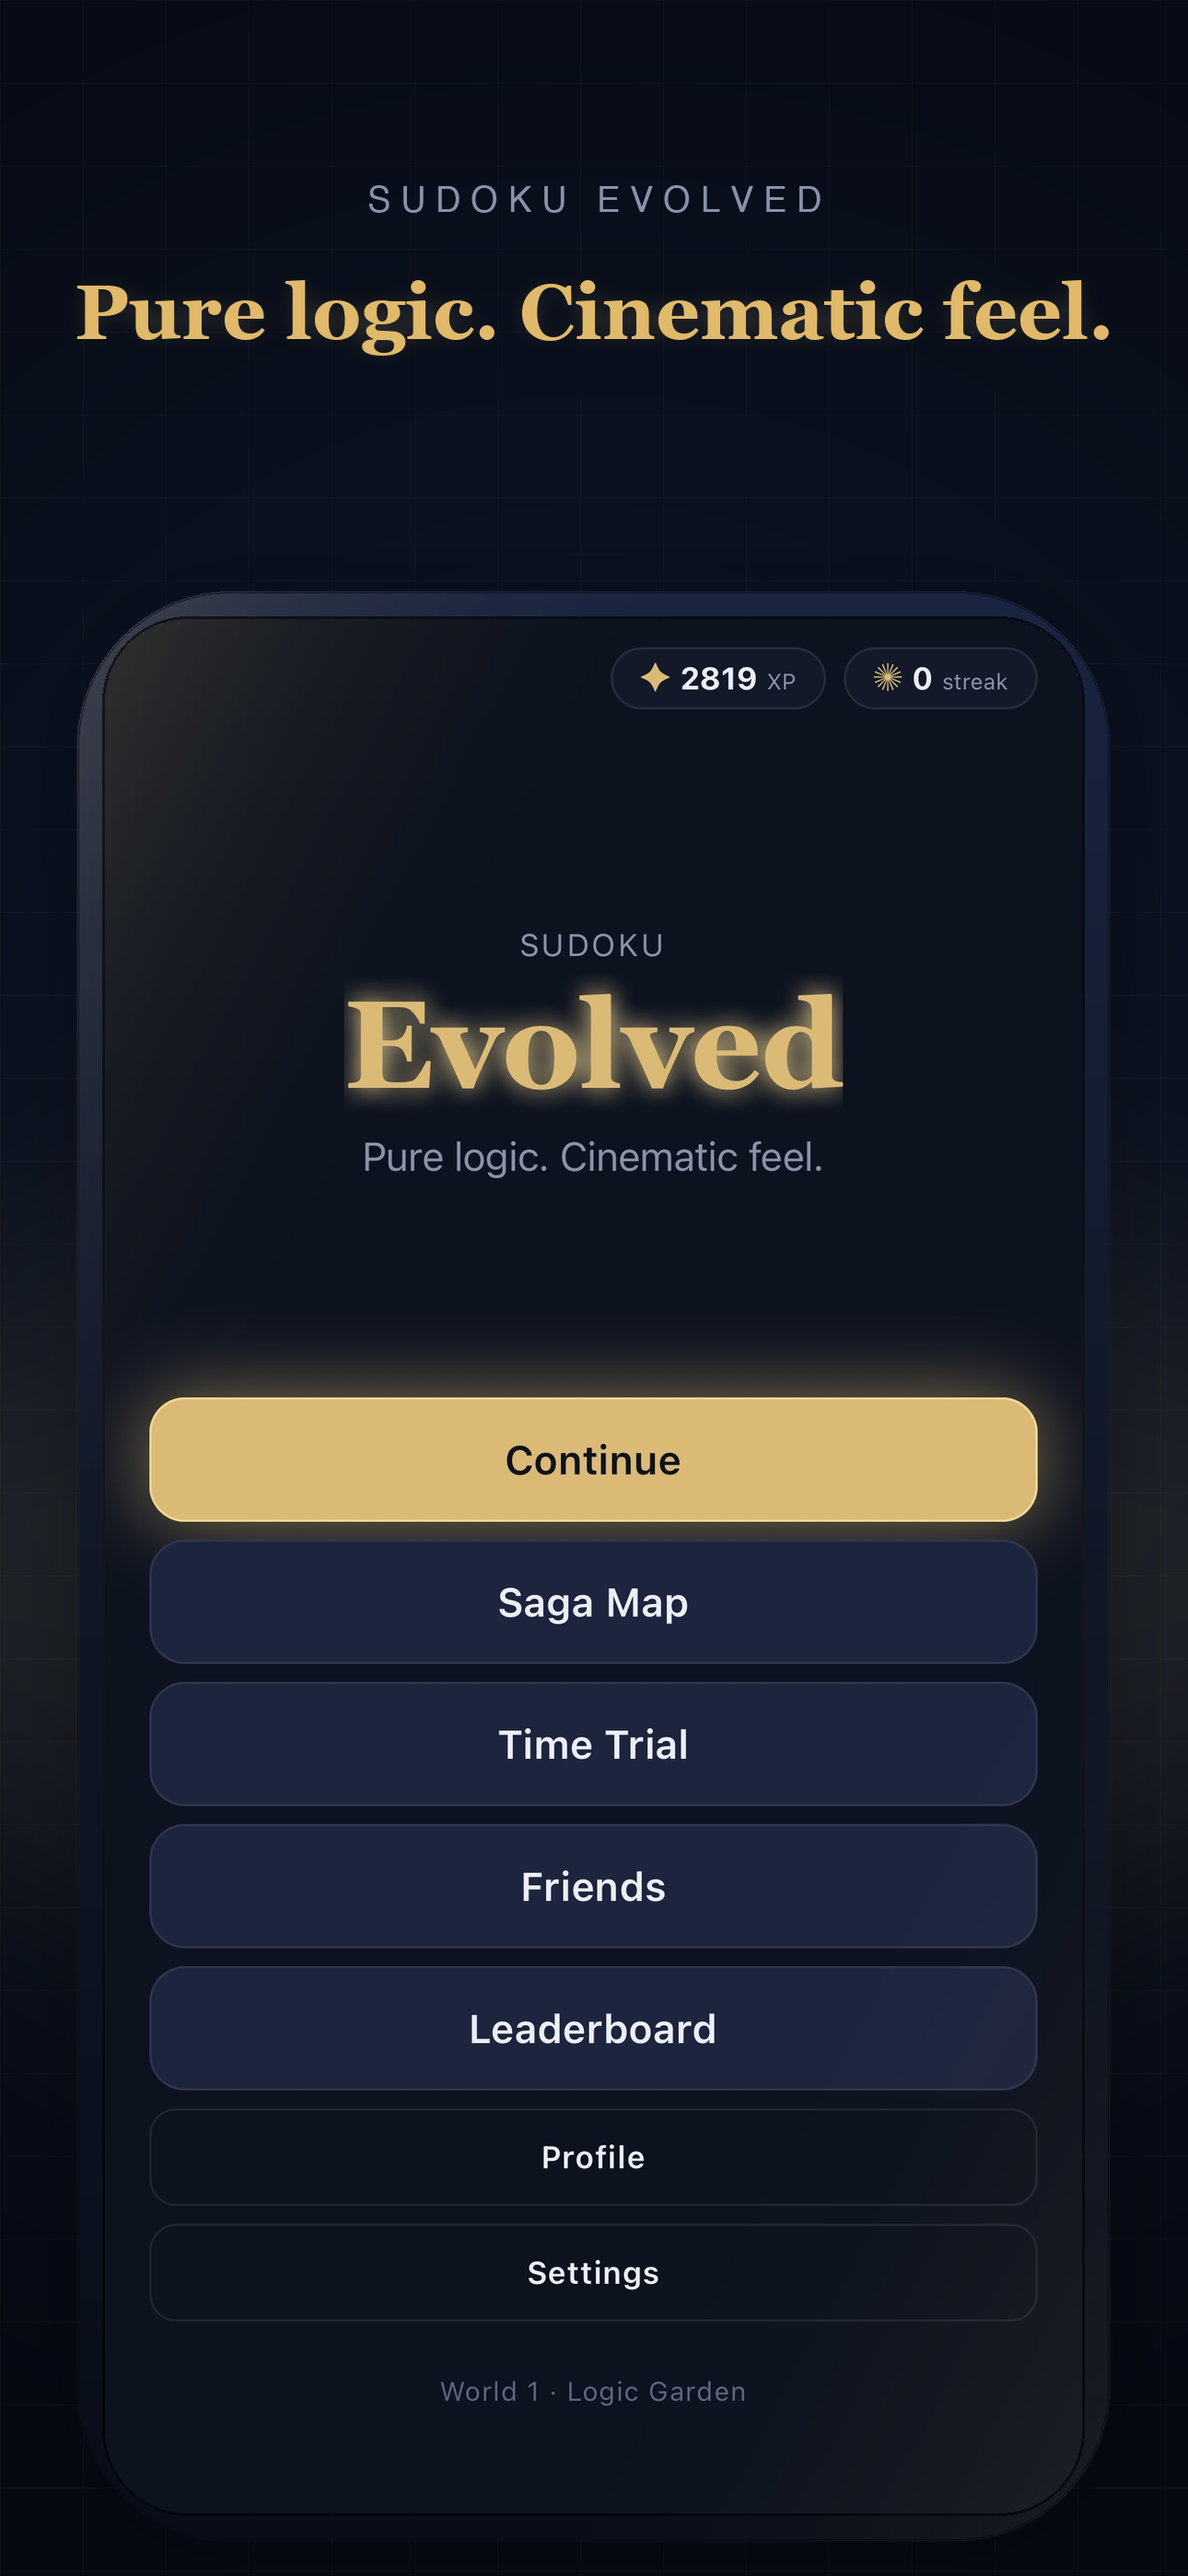
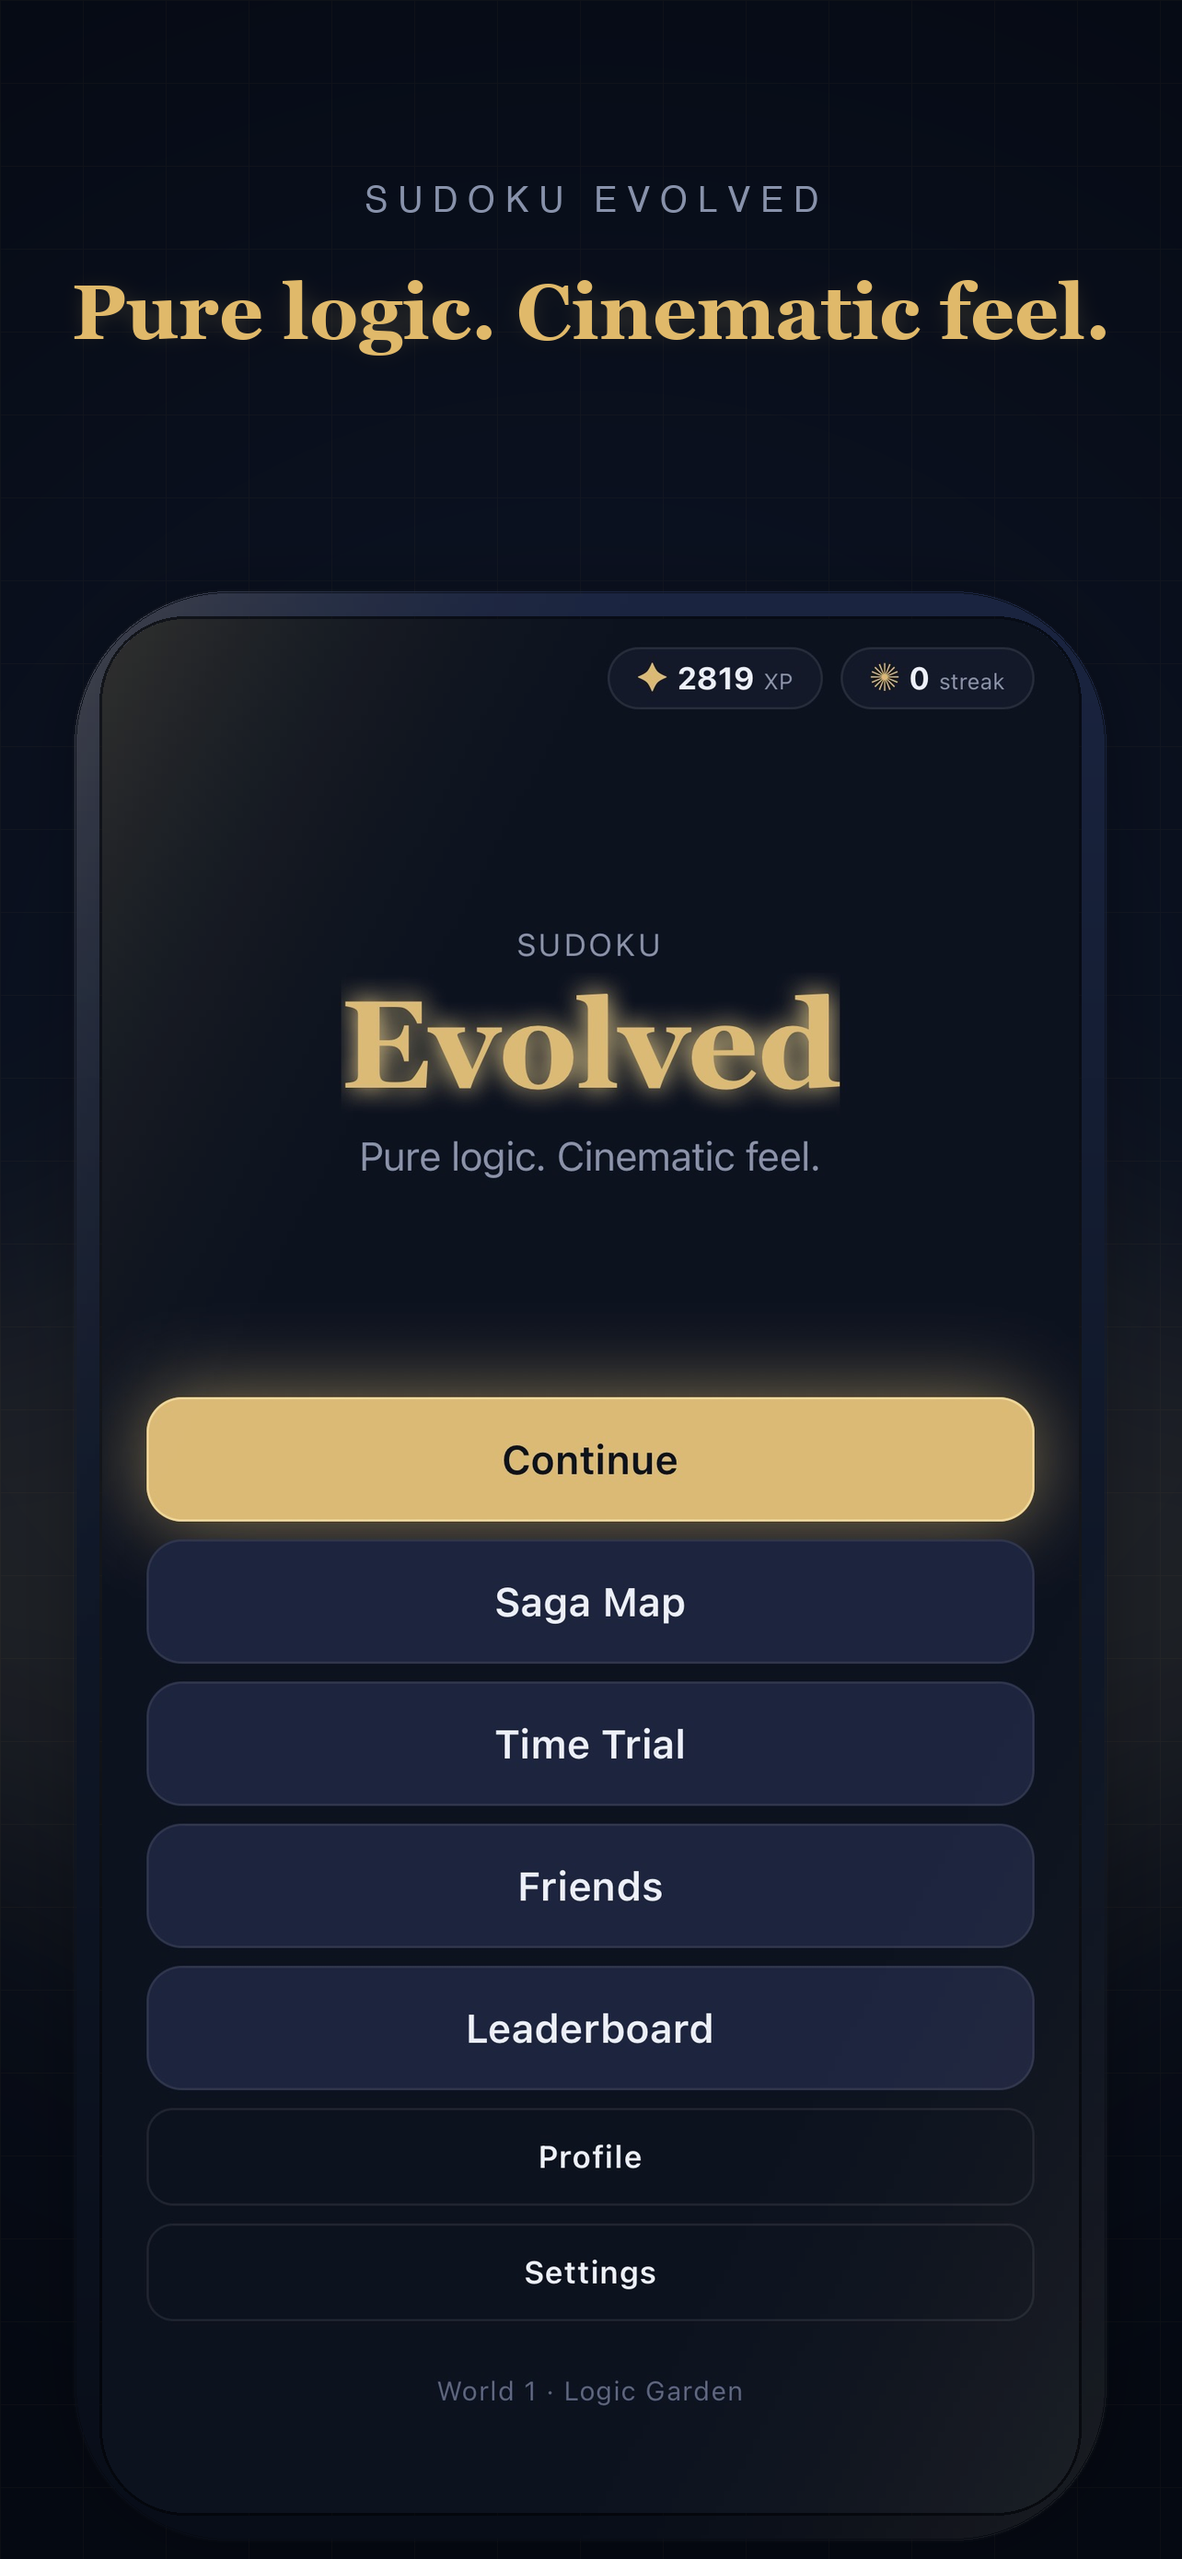
chore(screenshots): regenerate at 1284×2778 + add level-stats slot
App Store Connect rejected the previous 1290×2796 set with "Screenshots
dimensions should be: 1242 × 2688px, 2688 × 1242px, 1284 × 2778px or
2778 × 1284px" — the submission slot accepts only 6.5" or 6.7" iPhone
displays, not the 6.9" we were targeting. Switch the generator to the
6.7" Display dimensions (1284×2778, the more modern of the two).

Content changes:
- 02-saga-map: refreshed source with the build-7 capture (post biome
  wash polish + bottom-anchored act pill).
- 03-level-stats: NEW. Sells the per-level mechanics — your best,
  friend best, global #1, star/crown targets — captured from the
  Level Preview Modal that landed in build 6.
- Login dropped (was 10) to keep the count at the App Store cap of
  10. Sign-in is auth chrome, not gameplay; the other ten sell the
  game itself.

Final order:
  1 main-menu · 2 saga-map · 3 level-stats · 4 time-trial · 5 online-duel
  6 challenge-friend · 7 friends · 8 leaderboard · 9 leaderboard-global
  10 profile

Also: pick up the .vercel safety entry that got auto-added to
.gitignore when the Vercel CLI accidentally linked the repo root
earlier today. Prevents a future accidental commit of a stray
.vercel/ directory at the root.

diff --git a/scripts/generate-app-store-screenshots.py b/scripts/generate-app-store-screenshots.py
@@ -3,15 +3,21 @@ Generate App Store iPhone 6.7" marketing screenshots from raw device captures.
 
 Pipeline (per screenshot):
   1.  Read raw JPG from ~/Downloads/Sudoku-Evolved-Screenshots.zip
-  2.  Build a 1290×2796 canvas with a navy radial gradient + faint Logic
+  2.  Build a 1284×2778 canvas with a navy radial gradient + faint Logic
       Garden grid texture + warm gold halo behind the phone
   3.  Render the brand caption block at the top (eyebrow + gold serif headline)
   4.  Composite the source screenshot into a CSS-style iPhone bezel
       (mirrors web/src/components/ui/PhoneMockup.tsx visual language)
   5.  Save as PNG to assets/app-store-screenshots/<NN-slug>.png
 
-Output is App-Store-ready: 1290×2796 PNG, sRGB, no alpha. Apple's iPhone 6.7"
-slot. Filenames are numbered for deterministic gallery ordering.
+Output is App-Store-ready: **1284×2778** PNG, sRGB, no alpha. This is the
+iPhone 6.7" Display slot in App Store Connect (iPhone 14 Plus / 13 Pro Max /
+12 Pro Max generation). The earlier output dimensions (1290×2796) were the
+6.9" slot; App Store Connect rejected the upload with "Screenshots dimensions
+should be: 1242 × 2688px, 2688 × 1242px, 1284 × 2778px or 2778 × 1284px",
+i.e. the 6.5" or 6.7" slots. We target 6.7" (the more modern of the two).
+
+Filenames are numbered for deterministic gallery ordering.
 
 Usage:
   cd /Users/markkelly/PersonalProjects/SudokuEvolved
@@ -34,7 +40,10 @@ LOOSE_DIR = Path.home() / 'Downloads'  # fallback for screens not in the zip
 OUT_DIR = ROOT / 'assets' / 'app-store-screenshots'
 
 # ─── Apple spec ─────────────────────────────────────────────────────────────
-CANVAS_W, CANVAS_H = 1290, 2796  # iPhone 6.7" slot
+# iPhone 6.7" Display slot — accepted dimensions per App Store Connect.
+# The previous 1290×2796 was the 6.9" slot which the user's submission form
+# does not currently accept (see error message in the docstring above).
+CANVAS_W, CANVAS_H = 1284, 2778
 
 # ─── Brand tokens (mirror src/theme/colors.ts) ──────────────────────────────
 NAVY = (11, 18, 32)            # #0B1220
@@ -58,7 +67,15 @@ HELVETICA_BOLD = '/System/Library/Fonts/Helvetica.ttc'
 SCREENSHOTS = [
     # ── Solo gameplay arc ──
     ('Sudoku-Evolved-Main-Menu.jpg',          'main-menu',          'Pure logic. Cinematic feel.'),
-    ('Sudoku-Evolved-Saga-Map.jpg',           'saga-map',           'Where reason blooms.'),
+    # Saga map: replaced with the new build-7 capture (post biome-wash
+    # polish, bottom-anchored act pill). Filename has an underscore between
+    # "Sudoku" and "Evolved" — that's intentional, matches the source file
+    # the user provided in ~/Downloads.
+    ('Sudoku_Evolved-Saga-Map.png',           'saga-map',           'Where reason blooms.'),
+    # Level preview / Seed Gate modal — sits right after Saga Map in the
+    # gameplay flow, sells the per-level progression mechanics (your best,
+    # friend best, global #1, star/crown targets).
+    ('Sudoku-Evolved-Level-Stats.png',        'level-stats',        'Own every level.'),
     ('Sudoku-Evolved-Time-Trial.jpg',         'time-trial',         'Race the clock.'),
     # ── Social / multiplayer arc ──
     ('Sudoku-Evolved-Online-Duel.png',        'online-duel',        'Same grid. Same clock.'),
@@ -67,9 +84,11 @@ SCREENSHOTS = [
     # ── Competition arc ──
     ('Sudoku-Evolved-Leaderboard.jpg',        'leaderboard',        'Cleanest solve wins.'),
     ('Sudoku-Evolved-Leaderboard-Global.jpg', 'leaderboard-global', 'Climb the global board.'),
-    # ── Personal / sign-in ──
+    # ── Personal ──
+    # Login dropped to stay at App Store Connect's 10-screenshot cap.
+    # Sign-in is auth chrome rather than gameplay; the other 10 sell the
+    # game itself. Re-add if you want one more storyline beat.
     ('Sudoku-Evolved-Profile.jpg',            'profile',            'Stars, crowns, and your saga.'),
-    ('Sudoku-Evolved-Login.jpg',              'login',              'Sign in. Climb the board.'),
 ]
 
 
@@ -392,7 +411,7 @@ def main() -> None:
             zip_ctx.close()
 
     print()
-    print(f'✓ Generated {len(SCREENSHOTS)} App Store screenshots at 1290×2796.')
+    print(f'✓ Generated {len(SCREENSHOTS)} App Store screenshots at {CANVAS_W}×{CANVAS_H}.')
 
 
 if __name__ == '__main__':
